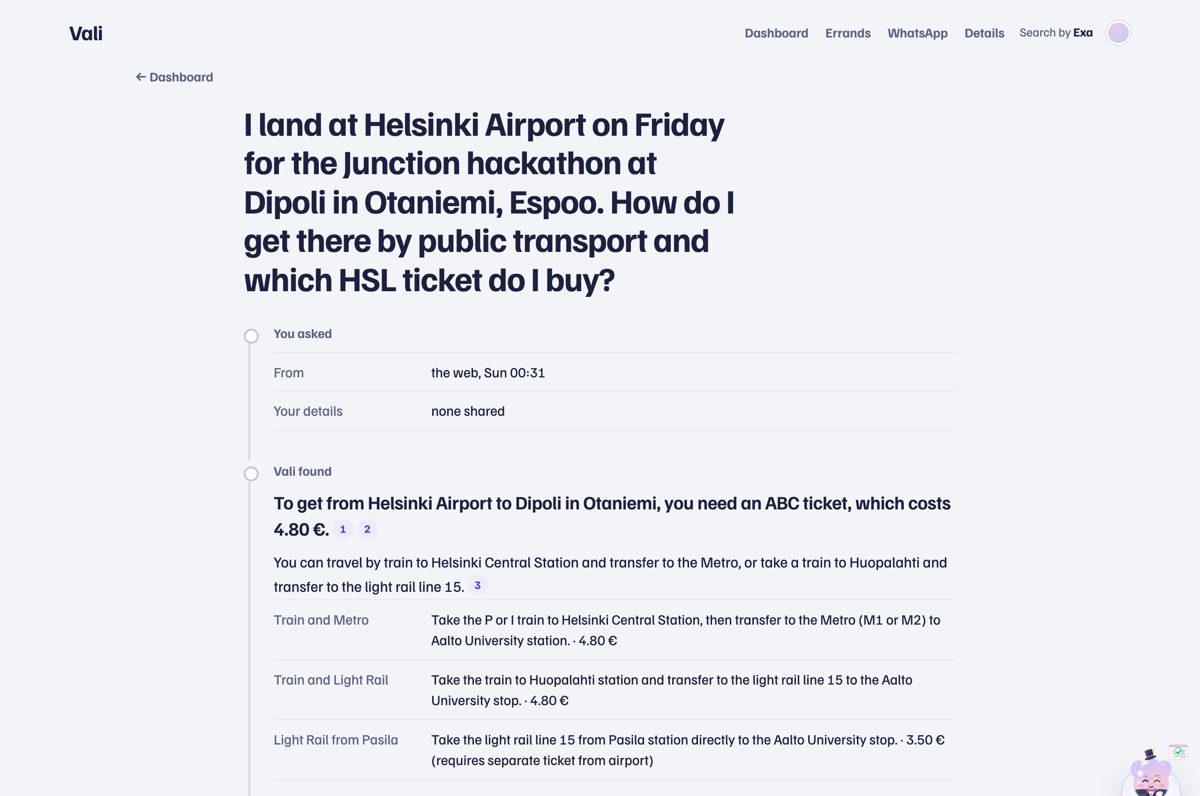
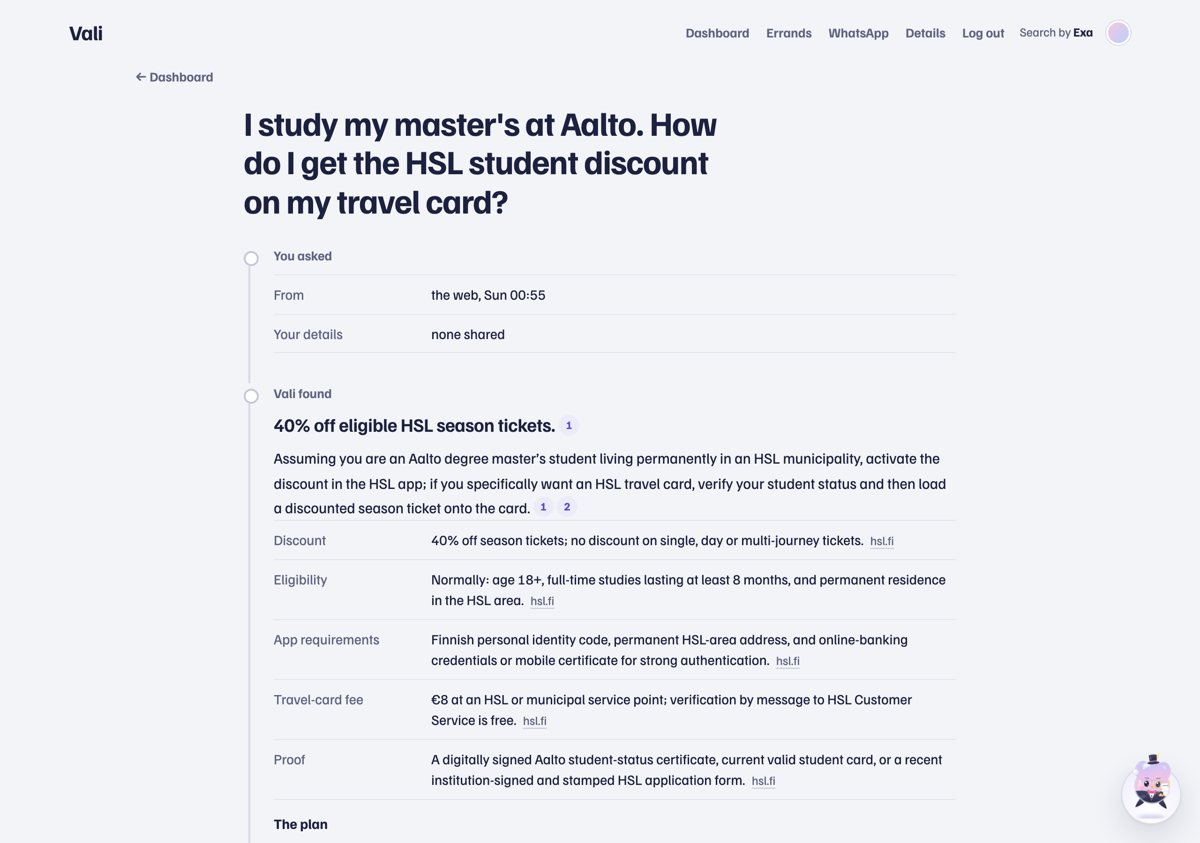
Landing follows the Aalto student story; new pictures; no errand list when signed out

diff --git a/web/index.html b/web/index.html
@@ -35,7 +35,7 @@
   <section id="home" class="view home">
     <div class="hero-slot" data-slot="home"></div>
     <h1>Your valet for life in Finland.</h1>
-    <p class="sub">Just arrived? Permits, bank, Kela, HSL, saunas. Vali handles it all. You tap Approve.</p>
+    <p class="sub">From your first bank account to your Sunday sauna. Message Vali on WhatsApp. Get on with student life.</p>
     <form id="ask" class="ask">
       <label class="sr-only" for="errand">Your errand</label>
       <input id="errand" type="text" maxlength="2000" autocomplete="off" enterkeyhint="send"
@@ -46,80 +46,64 @@
       <button type="submit" class="btn go">Ask Vali</button>
     </form>
     <div id="examples" class="chips examples">
-      <button type="button" class="chip">Register my address</button>
-      <button type="button" class="chip">Bank account without a Finnish ID</button>
       <button type="button" class="chip">HSL student discount</button>
-      <button type="button" class="chip">Book a sauna this Friday</button>
-      <button type="button" class="chip">Watch Kela student benefits</button>
+      <button type="button" class="chip">Bank account without a Finnish ID</button>
+      <button type="button" class="chip">Register as an EU citizen</button>
+      <button type="button" class="chip">Book a sauna on Sunday</button>
+      <button type="button" class="chip">Basketball court for Saturday</button>
     </div>
    <section id="errands" class="errands"></section>
 
     <div class="landing">
-      <section class="areas-band" aria-labelledby="areas-title">
-        <p class="eyebrow">Areas</p>
-        <h2 id="areas-title">Everything a newcomer needs</h2>
-        <ul class="areas">
-          <li class="area"><b>Documents</b><span>Residence permit, DVV, tax card, Kela</span></li>
-          <li class="area"><b>Money</b><span>Bank account without a Finnish ID, benefits</span></li>
-          <li class="area"><b>Transport</b><span>HSL tickets and discounts, trains, delays</span></li>
-          <li class="area"><b>Bookings</b><span>Sauna, cinema, appointments. Vali fills the form, you tap Approve.</span></li>
-          <li class="area"><b>Housing</b><span>Rent, landlord check</span></li>
-          <li class="area"><b>Watches</b><span>Exa Monitors keep looking. You hear only what is new.</span></li>
-        </ul>
-      </section>
-      <section class="feature">
+      <section class="feature" aria-labelledby="areas-title">
         <div class="feature-text">
-          <p class="eyebrow">WhatsApp</p>
-          <h2>Text Vali on WhatsApp</h2>
-          <p>Ask like you'd ask a friend. The answer lands in your chat, sources included.</p>
+          <h2 id="areas-title">Settle in with less hassle</h2>
+          <p>New at Aalto? Open a bank account without a Finnish ID. Sort your registration with Migri and DVV. Get the HSL student price.</p>
+          <p>Tell Vali where you are from and what you need. EU citizen or not, get answers that fit your situation. Exa reads the live web. Each answer links to the exact source.</p>
         </div>
-        <img class="shot" src="landing/whatsapp-answer.jpg" width="1200" height="730" loading="lazy"
+        <div>
+          <img class="shot" src="landing/whatsapp-answer.jpg" width="1200" height="730" loading="lazy"
              alt="WhatsApp chat: Vali explains how to open a bank account without a Finnish ID">
+          <img class="shot" src="landing/web-answer.jpg" width="1200" height="874" loading="lazy"
+             alt="Vali's answer page with sources and How Vali found this">
+        </div>
       </section>
 
       <section class="feature flip">
         <div class="feature-text">
-          <p class="eyebrow">Booking</p>
-          <h2>It books for you</h2>
-          <p>You tap Approve. Pay-on-site bookings are done; paid ones open in your browser to pay.</p>
+          <h2>Make room for your weekend</h2>
+          <p>Off to Junction? Ask what to bring. Find a basketball court for Saturday, food with friends, a Sunday sauna and a film.</p>
+          <p>Ready to book? Vali fills the real form in a private cloud browser on Modal. Check it in WhatsApp. Nothing is sent until you tap Approve.</p>
         </div>
         <img class="shot tall" src="landing/whatsapp-approve.jpg" width="900" height="1218" loading="lazy"
              alt="WhatsApp: the filled sauna booking form with Approve and Stop buttons">
       </section>
 
-      <section class="feature">
-        <div class="feature-text">
-          <p class="eyebrow">Sources</p>
-          <h2>Every answer has its source</h2>
-          <p>Official pages, read today. Every fact links to the quote behind it.</p>
-        </div>
-        <img class="shot" src="landing/web-answer.jpg" width="1200" height="874" loading="lazy"
-             alt="Vali's answer page with sources and How Vali found this">
+      <section class="band card">
+        <h2>Stop now. Continue later.</h2>
+        <p>Plans change. Tap Stop to pause the booking. Tap Continue when you are ready. Vali picks up where it stopped. You still approve before anything is sent.</p>
       </section>
 
       <section class="band card">
-        <p class="eyebrow">Watches</p>
-        <h2>Watches in the background</h2>
-        <p>Ask once. Vali checks daily and pings you only when something is new.</p>
+        <h2>Let a cheaper flat come to you</h2>
+        <p>Looking for a HOAS flat in Espoo under €700 a month? Ask Vali to watch. Daily Exa watches check for new matches. Get the links when something new appears.</p>
         <ul class="band-tags">
-          <li>Daily</li><li>Only new findings</li><li>Check now</li>
+          <li>Checks daily</li><li>New matches with sources</li><li>Check now</li>
         </ul>
       </section>
 
       <section class="feature flip">
         <div class="feature-text">
-          <p class="eyebrow">Dashboard</p>
           <h2>Everything in one dashboard</h2>
-          <p>WhatsApp, web and extension errands in one place, with every search behind them.</p>
+          <p>Your WhatsApp errands are already here. See what Vali found, what it did and what needs your approval. Open any errand to see the chat and sources.</p>
         </div>
         <img class="shot" src="landing/dashboard.jpg" width="1200" height="711" loading="lazy"
              alt="Vali dashboard: errands, Exa searches, pages read, quotes checked, cost">
       </section>
 
       <section class="band card exa-band">
-        <p class="eyebrow">Exa</p>
-        <h2>Built on Exa</h2>
-        <p>Every step runs on Exa.</p>
+        <h2>Built on Exa and Modal</h2>
+        <p>Exa finds the answers and checks for updates. Modal gives Vali a private browser to handle your bookings. You give the final approval.</p>
         <dl id="exa-uses" class="exa-uses"></dl>
       </section>
 

diff --git a/web/style.css b/web/style.css
@@ -675,3 +675,9 @@ body.signed-in .top .guest { display: none; }
 .next-errand:hover { border-style: solid; }
 .next-errand-label { font-size: 13px; color: var(--accent); font-weight: 700; }
 .next-errand-text { font-weight: 600; }
+/* Keep the paired settling-in answers easy to scan. */
+.landing .shot + .shot { margin-top: 20px; }
+.landing .feature-text p + p { margin-top: 16px; }
+
+/* the home errand list belongs to a signed-in account */
+body:not(.signed-in) #errands { display: none; }

diff --git a/web/model.js b/web/model.js
@@ -198,6 +198,7 @@ const LETTER_TITLE = 'Uploaded letter';
 export function channelOf(task) {
   if (task?.page?.title === LETTER_TITLE) return 'letter';
   const channel = String(task?.channel || task?.source || 'extension');
+  if (channel === 'api') return 'web'; // made by a script or another client: shown as the web
   return channel === 'desktop' ? 'mac' : channel;
 }
 
